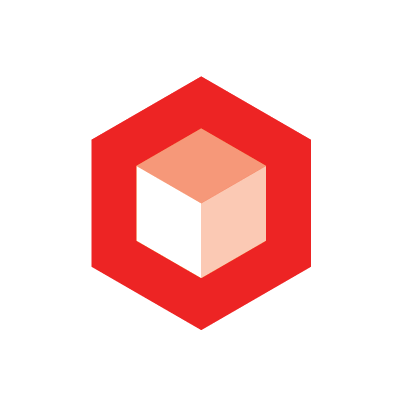
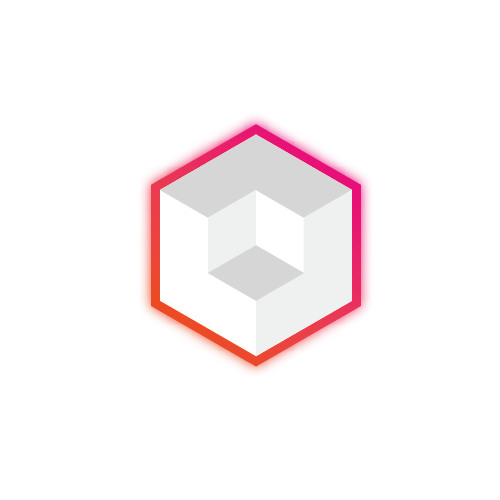
updated to new theme

Changed region(s): [[0.21, 0.18, 0.78, 0.84]]

diff --git a/index.html b/index.html
@@ -29,7 +29,10 @@
      font-weight: 300;
     }
     h1,h2,h3,h4{
-    color: #E5382A;
+    color: #E71378;
+	background: -webkit-linear-gradient(-45deg, rgba(234,75,37,1) 0%,rgba(231,19,120,1) 100%); /* Chrome10-25,Safari5.1-6 */
+	-webkit-background-clip: text;
+	-webkit-text-fill-color: transparent;
     font-weight: 300;
     }
     h1{
@@ -37,21 +40,33 @@
     }
     a{
     	text-decoration: none;
-    	color: #ED2724;
+    	color: #E71378;
+		border-bottom: 1px solid #E71378;
+		transition: .3s;
     }
     a:hover{
-
+		color: #fff !important;
+		background: rgb(234,75,37); /* Old browsers */
+	background: -moz-linear-gradient(-45deg, rgba(234,75,37,1) 0%, rgba(231,19,120,1) 100%); /* FF3.6-15 */
+	background: -webkit-linear-gradient(-45deg, rgba(234,75,37,1) 0%,rgba(231,19,120,1) 100%); /* Chrome10-25,Safari5.1-6 */
+	background: linear-gradient(135deg, rgba(234,75,37,1) 0%,rgba(231,19,120,1) 100%); /* W3C, IE10+, FF16+, Chrome26+, Opera12+, Safari7+ */
+	filter: progid:DXImageTransform.Microsoft.gradient( startColorstr='#ea4b25', endColorstr='#e71378',GradientType=1 ); /* IE6-9 fallback on horizontal gradient */
+		
     }
     a:visited{
-    	color: #ED2724;
+    	text-decoration: none;
+    	color: #E71378;
+		border-bottom: 1px solid #E71378;
     }
     a.slide{
+	  color: #efefef;
       padding: 2px 5px;
       transition: .3s;
+	  border-bottom: 1px solid #fff;
     }
     a.slide:hover{
-      background: #ED2724;
-      color: #fff;
+      background: #fff;
+      color: #E71378 !important;
     }
     .centerText{
     text-align: center;
@@ -63,14 +78,18 @@
     align-items: center;
     min-height: 100%;
     padding: 10% 10% 10% 10%;
-    background: #fff;
-    color: #313233;
+    background: rgb(234,75,37); /* Old browsers */
+	background: -moz-linear-gradient(-45deg, rgba(234,75,37,1) 0%, rgba(231,19,120,1) 100%); /* FF3.6-15 */
+	background: -webkit-linear-gradient(-45deg, rgba(234,75,37,1) 0%,rgba(231,19,120,1) 100%); /* Chrome10-25,Safari5.1-6 */
+	background: linear-gradient(135deg, rgba(234,75,37,1) 0%,rgba(231,19,120,1) 100%); /* W3C, IE10+, FF16+, Chrome26+, Opera12+, Safari7+ */
+	filter: progid:DXImageTransform.Microsoft.gradient( startColorstr='#ea4b25', endColorstr='#e71378',GradientType=1 ); /* IE6-9 fallback on horizontal gradient */
+    color: #fff;
     font-size: 40px;
     line-height: 70px;
     }
     .textScroll{
-    background: #ED2724;
-    color: #fff;
+    background: #fff;
+    color: #E71378;
     padding: 2px 5px;
     display: inline-block;
     height: 50px;
@@ -96,21 +115,23 @@
     bottom: 1%;
     left: 0;
     transition: .3s;
-    color: #ED2724;
+    color: #fff;
     cursor: pointer;
     text-decoration: none;
     font-size: 15px;
     animation: bounce 1s ease-in-out infinite;
     line-height: 23px;
+	border: none;
     }
     a.scroll:hover{
     	font-size: 16px;
+		background: transparent;
     }
     .logo{
-    width: 80px;
+    width: 150px;
     position: fixed;
-    top: 20px;
-    right: 30px;
+    top: 0px;
+    right: 0px;
     transition: .3s;
     }
     .content{
@@ -129,9 +150,8 @@
     }
     .social{
     	display: inline-block;
-    	width: 100px;
-    	height: 100px;
     	margin: 0 25px 25px 0;
+		padding: 8px;
     }
     .social > img{
     	width: 100%;
@@ -206,7 +226,7 @@
 			width: calc(50% - 15px);
 		}
     	.logo{
-    		width: 50px;
+    		width: 100px;
     	}
 
     }
@@ -221,8 +241,8 @@
 			width: calc(100% - 15px);
 		}
     	.logo{
-    	right: 10px;
-    	top: 8px;
+    	right: 0px;
+    	top: 0px;
     	}
     	.header{
     		font-size: 25px;
@@ -263,10 +283,36 @@
 		<section class="content" id="work">
 			<h2>LOGOS</h2>
 			<div class="thumbs small">
-				<input type="checkbox" id="ace">
-				<label for="ace">
-					<img src="lib/siteExports_ace.jpg" alt="inexorable logo" title="inexorableAce Brand"/>	
+				<input type="checkbox" id="destinyets">
+				<label for="destinyets">
+					<img src="lib/DestinySets.png" alt="Destiny Sets logo" title="Destiny Sets Brand"/>	
 				</label>
+				
+				<input type="checkbox" id="GH">
+				<label for="GH">
+					<img src="lib/G&H.png" alt="G&H logo" title="G&H Logo"/>
+				</label>
+				
+				<input type="checkbox" id="kjhovey">
+				<label for="kjhovey">
+					<img src="lib/kjhovey_logoFilledBack.png" alt="kjhoveyy logo" title="kjhovey Logo"/>
+				</label>
+				
+				<input type="checkbox" id="dim">
+				<label for="dim">
+					<img src="lib/dimLogo.jpg" alt="DIM Logo" title="Destiny Item Manager Logo"/>	
+				</label>
+				
+				<input type="checkbox" id="hostility">
+				<label for="hostility">
+					<img src="lib/hostility.png" alt="hostility Logo" title="hostility Logo"/>	
+				</label>
+				
+				<input type="checkbox" id="defrey">
+				<label for="defrey">
+					<img src="lib/defrey.png" alt="defreylee Logo" title="defreylee Logo"/>	
+				</label>
+				
 				
 				<input type="checkbox" id="bruce">
 				<label for="bruce">
@@ -278,10 +324,7 @@
 					<img src="lib/siteExports_crayz.jpg" alt="crayz sniper logo" title="Cray-Z Sniper Logo"/>	
 				</label>
 				
-				<input type="checkbox" id="dim">
-				<label for="dim">
-					<img src="lib/dimLogo.jpg" alt="DIM Logo" title="Destiny Item Manager Logo"/>	
-				</label>
+				
 				
 				<input type="checkbox" id="hov">
 				<label for="hov">
@@ -299,10 +342,7 @@
 				</label>
 				
 				
-				<input type="checkbox" id="kjhovey">
-				<label for="kjhovey">
-					<img src="lib/kjhovey_logoFilledBack.png" alt="kjhoveyy logo" title="kjhovey Logo"/>
-				</label>
+				
 				
 				<input type="checkbox" id="kraft">
 				<label for="kraft">
@@ -325,10 +365,6 @@
 					<img src="lib/siteExports_lupo.jpg" alt="dr lupo logo" title="Dr Lupo Minimal Logo"/>
 				</label>
 				
-				<input type="checkbox" id="jro">
-				<label for="jro">
-					<img src="lib/siteExports_ohnoJro.jpg" alt="oh no jro logo" title="Oh No Jro Logo"/>
-				</label>
 				
 				<input type="checkbox" id="ramon">
 				<label for="ramon">
@@ -361,10 +397,6 @@
 		<section class="content" id="Brands">
 		<h2>FULL BRANDS</h2>
 			<div class="thumbs large">
-				<input type="checkbox" id="acefull">
-				<label for="acefull">
-					<img src="lib/acepack-01.png" alt="InexorableAce Brand" title="InexorableAce Brand"/>
-				</label>
 				
 				<input type="checkbox" id="hoveyFull">
 				<label for="hoveyFull">
@@ -412,13 +444,13 @@
 		<section class="content" id="contact">
 			<div class="socialLinks">
 				<a class="social" href="https://twitter.com/InexorableAce">
-					<img src="lib/siteExports_twitter.jpg" />
+					Twitter
 				</a>
 				<a class="social" href="https://www.twitch.tv/inexorableace">
-					<img src="lib/siteExports_twitch.jpg" />
+					Twitch
 				</a>
 				<a class="social" href="mailto:inexace@gmail.com">
-					<img src="lib/siteExports_mail.jpg" />
+					Email
 				</a>
 			</div>
 		</section>
